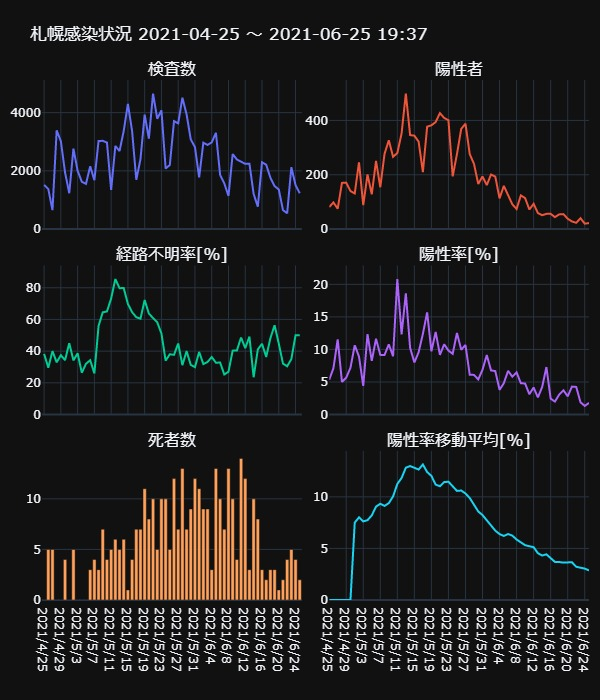
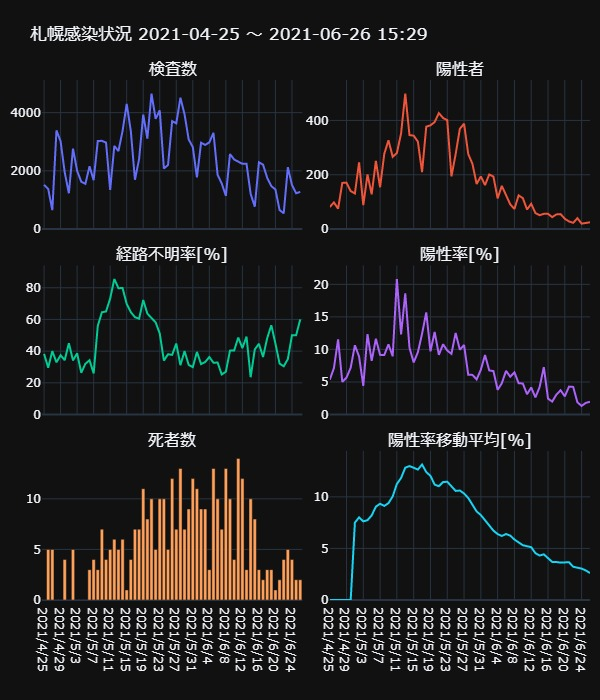
Updated with latest data.

diff --git a/docs/_includes/sapporo.html b/docs/_includes/sapporo.html
@@ -1,1 +1,1 @@
-<div>                            <div id="b25d6738-f92f-4b66-a51c-bef9ba3675e7" class="plotly-graph-div" style="height:700px; width:600px;"></div>            <script type="text/javascript">                                    window.PLOTLYENV=window.PLOTLYENV || {};                                    if (document.getElementById("b25d6738-f92f-4b66-a51c-bef9ba3675e7")) {                    Plotly.newPlot(                        "b25d6738-f92f-4b66-a51c-bef9ba3675e7",                        [{"name": "\u691c\u67fb\u6570", "type": "scatter", "x": ["2021/4/25", "2021/4/26", "2021/4/27", "2021/4/28", "2021/4/29", "2021/4/30", "2021/5/1", "2021/5/2", "2021/5/3", "2021/5/4", "2021/5/5", "2021/5/6", "2021/5/7", "2021/5/8", "2021/5/9", "2021/5/10", "2021/5/11", "2021/5/12", "2021/5/13", "2021/5/14", "2021/5/15", "2021/5/16", "2021/5/17", "2021/5/18", "2021/5/19", "2021/5/20", "2021/5/21", "2021/5/22", "2021/5/23", "2021/5/24", "2021/5/25", "2021/5/26", "2021/5/27", "2021/5/28", "2021/5/29", "2021/5/30", "2021/5/31", "2021/6/1", "2021/6/2", "2021/6/3", "2021/6/4", "2021/6/5", "2021/6/6", "2021/6/7", "2021/6/8", "2021/6/9", "2021/6/10", "2021/6/11", "2021/6/12", "2021/6/13", "2021/6/14", "2021/6/15", "2021/6/16", "2021/6/17", "2021/6/18", "2021/6/19", "2021/6/20", "2021/6/21", "2021/6/22", "2021/6/23", "2021/6/24", "2021/6/25"], "xaxis": "x", "y": [1517, 1377, 649, 3391, 3018, 1946, 1231, 2764, 2001, 1626, 1553, 2157, 1680, 3028, 3031, 2972, 1345, 2856, 2680, 3372, 4302, 3365, 1694, 2402, 3933, 3105, 4656, 3789, 4080, 2080, 2201, 3708, 3632, 4511, 3943, 3079, 2818, 1773, 2967, 2891, 2978, 3307, 1863, 1567, 1142, 2577, 2391, 2307, 2240, 2244, 1208, 768, 2295, 2212, 1763, 1476, 1360, 653, 542, 2124, 1513, 1229], "yaxis": "y"}, {"name": "\u967d\u6027\u8005", "type": "scatter", "x": ["2021/4/25", "2021/4/26", "2021/4/27", "2021/4/28", "2021/4/29", "2021/4/30", "2021/5/1", "2021/5/2", "2021/5/3", "2021/5/4", "2021/5/5", "2021/5/6", "2021/5/7", "2021/5/8", "2021/5/9", "2021/5/10", "2021/5/11", "2021/5/12", "2021/5/13", "2021/5/14", "2021/5/15", "2021/5/16", "2021/5/17", "2021/5/18", "2021/5/19", "2021/5/20", "2021/5/21", "2021/5/22", "2021/5/23", "2021/5/24", "2021/5/25", "2021/5/26", "2021/5/27", "2021/5/28", "2021/5/29", "2021/5/30", "2021/5/31", "2021/6/1", "2021/6/2", "2021/6/3", "2021/6/4", "2021/6/5", "2021/6/6", "2021/6/7", "2021/6/8", "2021/6/9", "2021/6/10", "2021/6/11", "2021/6/12", "2021/6/13", "2021/6/14", "2021/6/15", "2021/6/16", "2021/6/17", "2021/6/18", "2021/6/19", "2021/6/20", "2021/6/21", "2021/6/22", "2021/6/23", "2021/6/24", "2021/6/25"], "xaxis": "x2", "y": [81, 98, 75, 170, 171, 140, 131, 246, 88, 201, 128, 251, 154, 277, 327, 266, 280, 352, 499, 346, 344, 322, 210, 377, 382, 394, 427, 409, 401, 194, 276, 369, 388, 276, 240, 166, 194, 162, 201, 193, 113, 159, 125, 91, 74, 124, 114, 72, 93, 59, 51, 56, 56, 44, 54, 55, 38, 28, 23, 40, 20, 22], "yaxis": "y2"}, {"name": "\u7d4c\u8def\u4e0d\u660e\u7387[%]", "type": "scatter", "x": ["2021/4/25", "2021/4/26", "2021/4/27", "2021/4/28", "2021/4/29", "2021/4/30", "2021/5/1", "2021/5/2", "2021/5/3", "2021/5/4", "2021/5/5", "2021/5/6", "2021/5/7", "2021/5/8", "2021/5/9", "2021/5/10", "2021/5/11", "2021/5/12", "2021/5/13", "2021/5/14", "2021/5/15", "2021/5/16", "2021/5/17", "2021/5/18", "2021/5/19", "2021/5/20", "2021/5/21", "2021/5/22", "2021/5/23", "2021/5/24", "2021/5/25", "2021/5/26", "2021/5/27", "2021/5/28", "2021/5/29", "2021/5/30", "2021/5/31", "2021/6/1", "2021/6/2", "2021/6/3", "2021/6/4", "2021/6/5", "2021/6/6", "2021/6/7", "2021/6/8", "2021/6/9", "2021/6/10", "2021/6/11", "2021/6/12", "2021/6/13", "2021/6/14", "2021/6/15", "2021/6/16", "2021/6/17", "2021/6/18", "2021/6/19", "2021/6/20", "2021/6/21", "2021/6/22", "2021/6/23", "2021/6/24", "2021/6/25"], "xaxis": "x3", "y": [38.2716049382716, 29.591836734693878, 40.0, 32.94117647058823, 37.42690058479532, 34.285714285714285, 45.038167938931295, 34.146341463414636, 38.63636363636363, 26.368159203980102, 32.03125, 34.26294820717131, 25.97402597402597, 55.95667870036101, 64.52599388379205, 65.0375939849624, 73.21428571428571, 85.51136363636364, 79.75951903807615, 79.76878612716763, 69.76744186046511, 64.59627329192547, 61.42857142857143, 60.47745358090185, 72.25130890052355, 63.70558375634518, 60.88992974238876, 58.19070904645477, 51.12219451371571, 34.02061855670103, 38.04347826086957, 37.669376693766935, 44.84536082474227, 31.15942028985507, 40.0, 31.32530120481928, 29.896907216494846, 39.50617283950617, 31.8407960199005, 33.160621761658035, 36.283185840707965, 32.70440251572327, 32.800000000000004, 25.274725274725274, 27.027027027027028, 40.32258064516129, 40.35087719298245, 48.61111111111111, 41.935483870967744, 49.152542372881356, 23.52941176470588, 41.07142857142857, 44.642857142857146, 36.36363636363637, 48.148148148148145, 56.36363636363636, 44.73684210526316, 32.142857142857146, 30.434782608695656, 35.0, 50.0, 50.0], "yaxis": "y3"}, {"name": "\u967d\u6027\u7387[%]", "type": "scatter", "x": ["2021/4/25", "2021/4/26", "2021/4/27", "2021/4/28", "2021/4/29", "2021/4/30", "2021/5/1", "2021/5/2", "2021/5/3", "2021/5/4", "2021/5/5", "2021/5/6", "2021/5/7", "2021/5/8", "2021/5/9", "2021/5/10", "2021/5/11", "2021/5/12", "2021/5/13", "2021/5/14", "2021/5/15", "2021/5/16", "2021/5/17", "2021/5/18", "2021/5/19", "2021/5/20", "2021/5/21", "2021/5/22", "2021/5/23", "2021/5/24", "2021/5/25", "2021/5/26", "2021/5/27", "2021/5/28", "2021/5/29", "2021/5/30", "2021/5/31", "2021/6/1", "2021/6/2", "2021/6/3", "2021/6/4", "2021/6/5", "2021/6/6", "2021/6/7", "2021/6/8", "2021/6/9", "2021/6/10", "2021/6/11", "2021/6/12", "2021/6/13", "2021/6/14", "2021/6/15", "2021/6/16", "2021/6/17", "2021/6/18", "2021/6/19", "2021/6/20", "2021/6/21", "2021/6/22", "2021/6/23", "2021/6/24", "2021/6/25"], "xaxis": "x4", "y": [5.339485827290705, 7.116920842411038, 11.556240369799692, 5.013270421704512, 5.666003976143141, 7.194244604316546, 10.641754670999187, 8.90014471780029, 4.397801099450275, 12.361623616236162, 8.24211204121056, 11.636532220676866, 9.166666666666666, 9.147952443857331, 10.788518640712635, 8.950201884253028, 20.817843866171003, 12.324929971988796, 18.619402985074625, 10.26097271648873, 7.996280799628081, 9.569093610698365, 12.396694214876034, 15.695253955037469, 9.712687515891178, 12.689210950080515, 9.170962199312713, 10.794404856162576, 9.82843137254902, 9.326923076923077, 12.539754656974104, 9.951456310679612, 10.682819383259911, 6.1183772999334956, 6.086735987826528, 5.391360831438779, 6.88431511710433, 9.137055837563452, 6.774519716885743, 6.675890695261155, 3.794492948287441, 4.807983066223163, 6.709608158883522, 5.8072750478621575, 6.47985989492119, 4.811796662786186, 4.767879548306149, 3.1209362808842656, 4.151785714285714, 2.6292335115864525, 4.2218543046357615, 7.291666666666667, 2.440087145969499, 1.9891500904159132, 3.0629608621667614, 3.7262872628726287, 2.794117647058824, 4.287901990811639, 4.243542435424354, 1.8832391713747645, 1.3218770654329148, 1.790073230268511], "yaxis": "y4"}, {"name": "\u6b7b\u8005\u6570", "type": "bar", "x": ["2021/4/25", "2021/4/26", "2021/4/27", "2021/4/28", "2021/4/29", "2021/4/30", "2021/5/1", "2021/5/2", "2021/5/3", "2021/5/4", "2021/5/5", "2021/5/6", "2021/5/7", "2021/5/8", "2021/5/9", "2021/5/10", "2021/5/11", "2021/5/12", "2021/5/13", "2021/5/14", "2021/5/15", "2021/5/16", "2021/5/17", "2021/5/18", "2021/5/19", "2021/5/20", "2021/5/21", "2021/5/22", "2021/5/23", "2021/5/24", "2021/5/25", "2021/5/26", "2021/5/27", "2021/5/28", "2021/5/29", "2021/5/30", "2021/5/31", "2021/6/1", "2021/6/2", "2021/6/3", "2021/6/4", "2021/6/5", "2021/6/6", "2021/6/7", "2021/6/8", "2021/6/9", "2021/6/10", "2021/6/11", "2021/6/12", "2021/6/13", "2021/6/14", "2021/6/15", "2021/6/16", "2021/6/17", "2021/6/18", "2021/6/19", "2021/6/20", "2021/6/21", "2021/6/22", "2021/6/23", "2021/6/24", "2021/6/25"], "xaxis": "x5", "y": [0, 5, 5, 0, 0, 4, 0, 5, 0, 0, 0, 3, 4, 3, 7, 4, 5, 6, 5, 6, 1, 4, 7, 7, 11, 8, 10, 5, 10, 10, 5, 12, 7, 13, 7, 9, 12, 11, 9, 9, 3, 13, 10, 7, 13, 10, 4, 14, 12, 3, 10, 8, 3, 2, 3, 3, 1, 2, 4, 5, 4, 2], "yaxis": "y5"}, {"name": "\u967d\u6027\u7387\u79fb\u52d5\u5e73\u5747[%]", "type": "scatter", "x": ["2021/4/25", "2021/4/26", "2021/4/27", "2021/4/28", "2021/4/29", "2021/4/30", "2021/5/1", "2021/5/2", "2021/5/3", "2021/5/4", "2021/5/5", "2021/5/6", "2021/5/7", "2021/5/8", "2021/5/9", "2021/5/10", "2021/5/11", "2021/5/12", "2021/5/13", "2021/5/14", "2021/5/15", "2021/5/16", "2021/5/17", "2021/5/18", "2021/5/19", "2021/5/20", "2021/5/21", "2021/5/22", "2021/5/23", "2021/5/24", "2021/5/25", "2021/5/26", "2021/5/27", "2021/5/28", "2021/5/29", "2021/5/30", "2021/5/31", "2021/6/1", "2021/6/2", "2021/6/3", "2021/6/4", "2021/6/5", "2021/6/6", "2021/6/7", "2021/6/8", "2021/6/9", "2021/6/10", "2021/6/11", "2021/6/12", "2021/6/13", "2021/6/14", "2021/6/15", "2021/6/16", "2021/6/17", "2021/6/18", "2021/6/19", "2021/6/20", "2021/6/21", "2021/6/22", "2021/6/23", "2021/6/24", "2021/6/25"], "xaxis": "x6", "y": [0.0, 0.0, 0.0, 0.0, 0.0, 0.0, 7.503988673237832, 8.012654229024914, 7.624208551459091, 7.739263300950015, 8.20052638945088, 9.053458995812841, 9.335233576148571, 9.12183325798545, 9.391600961258641, 10.041943930516178, 11.249975394792585, 11.833235099189475, 12.830788065532012, 12.987117501220878, 12.8225929806167, 12.648389404900376, 13.140745452132233, 12.408946893398872, 12.035769399670638, 11.188599108957195, 11.032883320789193, 11.432615328865548, 11.469663580558498, 11.03112484656522, 10.580339232556168, 10.614449060383087, 10.32782169369443, 9.891738136640255, 9.219214012592248, 8.585346792433644, 8.236402798173822, 7.750302966829444, 7.296454882001749, 6.724036498001926, 6.392053019195346, 6.209374030394867, 6.397695077172687, 6.24383221013809, 5.864232789760624, 5.583843782032115, 5.311270761038544, 5.215048379980947, 5.12130590113274, 4.53839523723316, 4.311906559629389, 4.4278789555930285, 4.0890633103335015, 3.6921019592063242, 3.683819756532395, 3.6230342634733828, 3.646589139969436, 3.6560245237088473, 3.220578204959945, 3.141028494303555, 3.045703776448841, 2.863862686177662], "yaxis": "y6"}],                        {"annotations": [{"font": {"size": 16}, "showarrow": false, "text": "\u691c\u67fb\u6570", "x": 0.2375, "xanchor": "center", "xref": "paper", "y": 1.0, "yanchor": "bottom", "yref": "paper"}, {"font": {"size": 16}, "showarrow": false, "text": "\u967d\u6027\u8005", "x": 0.7625, "xanchor": "center", "xref": "paper", "y": 1.0, "yanchor": "bottom", "yref": "paper"}, {"font": {"size": 16}, "showarrow": false, "text": "\u7d4c\u8def\u4e0d\u660e\u7387[%]", "x": 0.2375, "xanchor": "center", "xref": "paper", "y": 0.6433333333333333, "yanchor": "bottom", "yref": "paper"}, {"font": {"size": 16}, "showarrow": false, "text": "\u967d\u6027\u7387[%]", "x": 0.7625, "xanchor": "center", "xref": "paper", "y": 0.6433333333333333, "yanchor": "bottom", "yref": "paper"}, {"font": {"size": 16}, "showarrow": false, "text": "\u6b7b\u8005\u6570", "x": 0.2375, "xanchor": "center", "xref": "paper", "y": 0.2866666666666667, "yanchor": "bottom", "yref": "paper"}, {"font": {"size": 16}, "showarrow": false, "text": "\u967d\u6027\u7387\u79fb\u52d5\u5e73\u5747[%]", "x": 0.7625, "xanchor": "center", "xref": "paper", "y": 0.2866666666666667, "yanchor": "bottom", "yref": "paper"}], "height": 700, "margin": {"b": 100, "l": 10, "r": 10, "t": 80}, "showlegend": false, "template": {"data": {"bar": [{"error_x": {"color": "#f2f5fa"}, "error_y": {"color": "#f2f5fa"}, "marker": {"line": {"color": "rgb(17,17,17)", "width": 0.5}}, "type": "bar"}], "barpolar": [{"marker": {"line": {"color": "rgb(17,17,17)", "width": 0.5}}, "type": "barpolar"}], "carpet": [{"aaxis": {"endlinecolor": "#A2B1C6", "gridcolor": "#506784", "linecolor": "#506784", "minorgridcolor": "#506784", "startlinecolor": "#A2B1C6"}, "baxis": {"endlinecolor": "#A2B1C6", "gridcolor": "#506784", "linecolor": "#506784", "minorgridcolor": "#506784", "startlinecolor": "#A2B1C6"}, "type": "carpet"}], "choropleth": [{"colorbar": {"outlinewidth": 0, "ticks": ""}, "type": "choropleth"}], "contour": [{"colorbar": {"outlinewidth": 0, "ticks": ""}, "colorscale": [[0.0, "#0d0887"], [0.1111111111111111, "#46039f"], [0.2222222222222222, "#7201a8"], [0.3333333333333333, "#9c179e"], [0.4444444444444444, "#bd3786"], [0.5555555555555556, "#d8576b"], [0.6666666666666666, "#ed7953"], [0.7777777777777778, "#fb9f3a"], [0.8888888888888888, "#fdca26"], [1.0, "#f0f921"]], "type": "contour"}], "contourcarpet": [{"colorbar": {"outlinewidth": 0, "ticks": ""}, "type": "contourcarpet"}], "heatmap": [{"colorbar": {"outlinewidth": 0, "ticks": ""}, "colorscale": [[0.0, "#0d0887"], [0.1111111111111111, "#46039f"], [0.2222222222222222, "#7201a8"], [0.3333333333333333, "#9c179e"], [0.4444444444444444, "#bd3786"], [0.5555555555555556, "#d8576b"], [0.6666666666666666, "#ed7953"], [0.7777777777777778, "#fb9f3a"], [0.8888888888888888, "#fdca26"], [1.0, "#f0f921"]], "type": "heatmap"}], "heatmapgl": [{"colorbar": {"outlinewidth": 0, "ticks": ""}, "colorscale": [[0.0, "#0d0887"], [0.1111111111111111, "#46039f"], [0.2222222222222222, "#7201a8"], [0.3333333333333333, "#9c179e"], [0.4444444444444444, "#bd3786"], [0.5555555555555556, "#d8576b"], [0.6666666666666666, "#ed7953"], [0.7777777777777778, "#fb9f3a"], [0.8888888888888888, "#fdca26"], [1.0, "#f0f921"]], "type": "heatmapgl"}], "histogram": [{"marker": {"colorbar": {"outlinewidth": 0, "ticks": ""}}, "type": "histogram"}], "histogram2d": [{"colorbar": {"outlinewidth": 0, "ticks": ""}, "colorscale": [[0.0, "#0d0887"], [0.1111111111111111, "#46039f"], [0.2222222222222222, "#7201a8"], [0.3333333333333333, "#9c179e"], [0.4444444444444444, "#bd3786"], [0.5555555555555556, "#d8576b"], [0.6666666666666666, "#ed7953"], [0.7777777777777778, "#fb9f3a"], [0.8888888888888888, "#fdca26"], [1.0, "#f0f921"]], "type": "histogram2d"}], "histogram2dcontour": [{"colorbar": {"outlinewidth": 0, "ticks": ""}, "colorscale": [[0.0, "#0d0887"], [0.1111111111111111, "#46039f"], [0.2222222222222222, "#7201a8"], [0.3333333333333333, "#9c179e"], [0.4444444444444444, "#bd3786"], [0.5555555555555556, "#d8576b"], [0.6666666666666666, "#ed7953"], [0.7777777777777778, "#fb9f3a"], [0.8888888888888888, "#fdca26"], [1.0, "#f0f921"]], "type": "histogram2dcontour"}], "mesh3d": [{"colorbar": {"outlinewidth": 0, "ticks": ""}, "type": "mesh3d"}], "parcoords": [{"line": {"colorbar": {"outlinewidth": 0, "ticks": ""}}, "type": "parcoords"}], "pie": [{"automargin": true, "type": "pie"}], "scatter": [{"marker": {"line": {"color": "#283442"}}, "type": "scatter"}], "scatter3d": [{"line": {"colorbar": {"outlinewidth": 0, "ticks": ""}}, "marker": {"colorbar": {"outlinewidth": 0, "ticks": ""}}, "type": "scatter3d"}], "scattercarpet": [{"marker": {"colorbar": {"outlinewidth": 0, "ticks": ""}}, "type": "scattercarpet"}], "scattergeo": [{"marker": {"colorbar": {"outlinewidth": 0, "ticks": ""}}, "type": "scattergeo"}], "scattergl": [{"marker": {"line": {"color": "#283442"}}, "type": "scattergl"}], "scattermapbox": [{"marker": {"colorbar": {"outlinewidth": 0, "ticks": ""}}, "type": "scattermapbox"}], "scatterpolar": [{"marker": {"colorbar": {"outlinewidth": 0, "ticks": ""}}, "type": "scatterpolar"}], "scatterpolargl": [{"marker": {"colorbar": {"outlinewidth": 0, "ticks": ""}}, "type": "scatterpolargl"}], "scatterternary": [{"marker": {"colorbar": {"outlinewidth": 0, "ticks": ""}}, "type": "scatterternary"}], "surface": [{"colorbar": {"outlinewidth": 0, "ticks": ""}, "colorscale": [[0.0, "#0d0887"], [0.1111111111111111, "#46039f"], [0.2222222222222222, "#7201a8"], [0.3333333333333333, "#9c179e"], [0.4444444444444444, "#bd3786"], [0.5555555555555556, "#d8576b"], [0.6666666666666666, "#ed7953"], [0.7777777777777778, "#fb9f3a"], [0.8888888888888888, "#fdca26"], [1.0, "#f0f921"]], "type": "surface"}], "table": [{"cells": {"fill": {"color": "#506784"}, "line": {"color": "rgb(17,17,17)"}}, "header": {"fill": {"color": "#2a3f5f"}, "line": {"color": "rgb(17,17,17)"}}, "type": "table"}]}, "layout": {"annotationdefaults": {"arrowcolor": "#f2f5fa", "arrowhead": 0, "arrowwidth": 1}, "autotypenumbers": "strict", "coloraxis": {"colorbar": {"outlinewidth": 0, "ticks": ""}}, "colorscale": {"diverging": [[0, "#8e0152"], [0.1, "#c51b7d"], [0.2, "#de77ae"], [0.3, "#f1b6da"], [0.4, "#fde0ef"], [0.5, "#f7f7f7"], [0.6, "#e6f5d0"], [0.7, "#b8e186"], [0.8, "#7fbc41"], [0.9, "#4d9221"], [1, "#276419"]], "sequential": [[0.0, "#0d0887"], [0.1111111111111111, "#46039f"], [0.2222222222222222, "#7201a8"], [0.3333333333333333, "#9c179e"], [0.4444444444444444, "#bd3786"], [0.5555555555555556, "#d8576b"], [0.6666666666666666, "#ed7953"], [0.7777777777777778, "#fb9f3a"], [0.8888888888888888, "#fdca26"], [1.0, "#f0f921"]], "sequentialminus": [[0.0, "#0d0887"], [0.1111111111111111, "#46039f"], [0.2222222222222222, "#7201a8"], [0.3333333333333333, "#9c179e"], [0.4444444444444444, "#bd3786"], [0.5555555555555556, "#d8576b"], [0.6666666666666666, "#ed7953"], [0.7777777777777778, "#fb9f3a"], [0.8888888888888888, "#fdca26"], [1.0, "#f0f921"]]}, "colorway": ["#636efa", "#EF553B", "#00cc96", "#ab63fa", "#FFA15A", "#19d3f3", "#FF6692", "#B6E880", "#FF97FF", "#FECB52"], "font": {"color": "#f2f5fa"}, "geo": {"bgcolor": "rgb(17,17,17)", "lakecolor": "rgb(17,17,17)", "landcolor": "rgb(17,17,17)", "showlakes": true, "showland": true, "subunitcolor": "#506784"}, "hoverlabel": {"align": "left"}, "hovermode": "closest", "mapbox": {"style": "dark"}, "paper_bgcolor": "rgb(17,17,17)", "plot_bgcolor": "rgb(17,17,17)", "polar": {"angularaxis": {"gridcolor": "#506784", "linecolor": "#506784", "ticks": ""}, "bgcolor": "rgb(17,17,17)", "radialaxis": {"gridcolor": "#506784", "linecolor": "#506784", "ticks": ""}}, "scene": {"xaxis": {"backgroundcolor": "rgb(17,17,17)", "gridcolor": "#506784", "gridwidth": 2, "linecolor": "#506784", "showbackground": true, "ticks": "", "zerolinecolor": "#C8D4E3"}, "yaxis": {"backgroundcolor": "rgb(17,17,17)", "gridcolor": "#506784", "gridwidth": 2, "linecolor": "#506784", "showbackground": true, "ticks": "", "zerolinecolor": "#C8D4E3"}, "zaxis": {"backgroundcolor": "rgb(17,17,17)", "gridcolor": "#506784", "gridwidth": 2, "linecolor": "#506784", "showbackground": true, "ticks": "", "zerolinecolor": "#C8D4E3"}}, "shapedefaults": {"line": {"color": "#f2f5fa"}}, "sliderdefaults": {"bgcolor": "#C8D4E3", "bordercolor": "rgb(17,17,17)", "borderwidth": 1, "tickwidth": 0}, "ternary": {"aaxis": {"gridcolor": "#506784", "linecolor": "#506784", "ticks": ""}, "baxis": {"gridcolor": "#506784", "linecolor": "#506784", "ticks": ""}, "bgcolor": "rgb(17,17,17)", "caxis": {"gridcolor": "#506784", "linecolor": "#506784", "ticks": ""}}, "title": {"x": 0.05}, "updatemenudefaults": {"bgcolor": "#506784", "borderwidth": 0}, "xaxis": {"automargin": true, "gridcolor": "#283442", "linecolor": "#506784", "ticks": "", "title": {"standoff": 15}, "zerolinecolor": "#283442", "zerolinewidth": 2}, "yaxis": {"automargin": true, "gridcolor": "#283442", "linecolor": "#506784", "ticks": "", "title": {"standoff": 15}, "zerolinecolor": "#283442", "zerolinewidth": 2}}}, "title": {"text": "\u672d\u5e4c\u611f\u67d3\u72b6\u6cc1 2021-04-25 \uff5e 2021-06-25 19:37"}, "width": 600, "xaxis": {"anchor": "y", "domain": [0.0, 0.475], "matches": "x5", "showticklabels": false}, "xaxis2": {"anchor": "y2", "domain": [0.525, 1.0], "matches": "x6", "showticklabels": false}, "xaxis3": {"anchor": "y3", "domain": [0.0, 0.475], "matches": "x5", "showticklabels": false}, "xaxis4": {"anchor": "y4", "domain": [0.525, 1.0], "matches": "x6", "showticklabels": false}, "xaxis5": {"anchor": "y5", "domain": [0.0, 0.475]}, "xaxis6": {"anchor": "y6", "domain": [0.525, 1.0]}, "yaxis": {"anchor": "x", "domain": [0.7133333333333334, 1.0], "range": [0, 5121.6]}, "yaxis2": {"anchor": "x2", "domain": [0.7133333333333334, 1.0], "range": [0, 548.9000000000001]}, "yaxis3": {"anchor": "x3", "domain": [0.3566666666666667, 0.6433333333333333], "range": [0, 94.06250000000001]}, "yaxis4": {"anchor": "x4", "domain": [0.3566666666666667, 0.6433333333333333], "range": [0, 22.899628252788105]}, "yaxis5": {"anchor": "x5", "domain": [0.0, 0.2866666666666667]}, "yaxis6": {"anchor": "x6", "domain": [0.0, 0.2866666666666667], "range": [0, 14.454819997345457]}},                        {"responsive": true}                    )                };                            </script>        </div>
+<div>                            <div id="d85dbfbd-cb81-4a8b-b742-5a69754cc011" class="plotly-graph-div" style="height:700px; width:600px;"></div>            <script type="text/javascript">                                    window.PLOTLYENV=window.PLOTLYENV || {};                                    if (document.getElementById("d85dbfbd-cb81-4a8b-b742-5a69754cc011")) {                    Plotly.newPlot(                        "d85dbfbd-cb81-4a8b-b742-5a69754cc011",                        [{"name": "\u691c\u67fb\u6570", "type": "scatter", "x": ["2021/4/25", "2021/4/26", "2021/4/27", "2021/4/28", "2021/4/29", "2021/4/30", "2021/5/1", "2021/5/2", "2021/5/3", "2021/5/4", "2021/5/5", "2021/5/6", "2021/5/7", "2021/5/8", "2021/5/9", "2021/5/10", "2021/5/11", "2021/5/12", "2021/5/13", "2021/5/14", "2021/5/15", "2021/5/16", "2021/5/17", "2021/5/18", "2021/5/19", "2021/5/20", "2021/5/21", "2021/5/22", "2021/5/23", "2021/5/24", "2021/5/25", "2021/5/26", "2021/5/27", "2021/5/28", "2021/5/29", "2021/5/30", "2021/5/31", "2021/6/1", "2021/6/2", "2021/6/3", "2021/6/4", "2021/6/5", "2021/6/6", "2021/6/7", "2021/6/8", "2021/6/9", "2021/6/10", "2021/6/11", "2021/6/12", "2021/6/13", "2021/6/14", "2021/6/15", "2021/6/16", "2021/6/17", "2021/6/18", "2021/6/19", "2021/6/20", "2021/6/21", "2021/6/22", "2021/6/23", "2021/6/24", "2021/6/25", "2021/6/26"], "xaxis": "x", "y": [1517, 1377, 649, 3391, 3018, 1946, 1231, 2764, 2001, 1626, 1553, 2157, 1680, 3028, 3031, 2972, 1345, 2856, 2680, 3372, 4302, 3365, 1694, 2402, 3933, 3105, 4656, 3789, 4080, 2080, 2201, 3708, 3632, 4511, 3943, 3079, 2818, 1773, 2967, 2891, 2978, 3307, 1863, 1567, 1142, 2577, 2391, 2307, 2240, 2244, 1208, 768, 2295, 2212, 1763, 1476, 1360, 653, 542, 2124, 1513, 1229, 1278], "yaxis": "y"}, {"name": "\u967d\u6027\u8005", "type": "scatter", "x": ["2021/4/25", "2021/4/26", "2021/4/27", "2021/4/28", "2021/4/29", "2021/4/30", "2021/5/1", "2021/5/2", "2021/5/3", "2021/5/4", "2021/5/5", "2021/5/6", "2021/5/7", "2021/5/8", "2021/5/9", "2021/5/10", "2021/5/11", "2021/5/12", "2021/5/13", "2021/5/14", "2021/5/15", "2021/5/16", "2021/5/17", "2021/5/18", "2021/5/19", "2021/5/20", "2021/5/21", "2021/5/22", "2021/5/23", "2021/5/24", "2021/5/25", "2021/5/26", "2021/5/27", "2021/5/28", "2021/5/29", "2021/5/30", "2021/5/31", "2021/6/1", "2021/6/2", "2021/6/3", "2021/6/4", "2021/6/5", "2021/6/6", "2021/6/7", "2021/6/8", "2021/6/9", "2021/6/10", "2021/6/11", "2021/6/12", "2021/6/13", "2021/6/14", "2021/6/15", "2021/6/16", "2021/6/17", "2021/6/18", "2021/6/19", "2021/6/20", "2021/6/21", "2021/6/22", "2021/6/23", "2021/6/24", "2021/6/25", "2021/6/26"], "xaxis": "x2", "y": [81, 98, 75, 170, 171, 140, 131, 246, 88, 201, 128, 251, 154, 277, 327, 266, 280, 352, 499, 346, 344, 322, 210, 377, 382, 394, 427, 409, 401, 194, 276, 369, 388, 276, 240, 166, 194, 162, 201, 193, 113, 159, 125, 91, 74, 124, 114, 72, 93, 59, 51, 56, 56, 44, 54, 55, 38, 28, 23, 40, 20, 22, 25], "yaxis": "y2"}, {"name": "\u7d4c\u8def\u4e0d\u660e\u7387[%]", "type": "scatter", "x": ["2021/4/25", "2021/4/26", "2021/4/27", "2021/4/28", "2021/4/29", "2021/4/30", "2021/5/1", "2021/5/2", "2021/5/3", "2021/5/4", "2021/5/5", "2021/5/6", "2021/5/7", "2021/5/8", "2021/5/9", "2021/5/10", "2021/5/11", "2021/5/12", "2021/5/13", "2021/5/14", "2021/5/15", "2021/5/16", "2021/5/17", "2021/5/18", "2021/5/19", "2021/5/20", "2021/5/21", "2021/5/22", "2021/5/23", "2021/5/24", "2021/5/25", "2021/5/26", "2021/5/27", "2021/5/28", "2021/5/29", "2021/5/30", "2021/5/31", "2021/6/1", "2021/6/2", "2021/6/3", "2021/6/4", "2021/6/5", "2021/6/6", "2021/6/7", "2021/6/8", "2021/6/9", "2021/6/10", "2021/6/11", "2021/6/12", "2021/6/13", "2021/6/14", "2021/6/15", "2021/6/16", "2021/6/17", "2021/6/18", "2021/6/19", "2021/6/20", "2021/6/21", "2021/6/22", "2021/6/23", "2021/6/24", "2021/6/25", "2021/6/26"], "xaxis": "x3", "y": [38.2716049382716, 29.591836734693878, 40.0, 32.94117647058823, 37.42690058479532, 34.285714285714285, 45.038167938931295, 34.146341463414636, 38.63636363636363, 26.368159203980102, 32.03125, 34.26294820717131, 25.97402597402597, 55.95667870036101, 64.52599388379205, 65.0375939849624, 73.21428571428571, 85.51136363636364, 79.75951903807615, 79.76878612716763, 69.76744186046511, 64.59627329192547, 61.42857142857143, 60.47745358090185, 72.25130890052355, 63.70558375634518, 60.88992974238876, 58.19070904645477, 51.12219451371571, 34.02061855670103, 38.04347826086957, 37.669376693766935, 44.84536082474227, 31.15942028985507, 40.0, 31.32530120481928, 29.896907216494846, 39.50617283950617, 31.8407960199005, 33.160621761658035, 36.283185840707965, 32.70440251572327, 32.800000000000004, 25.274725274725274, 27.027027027027028, 40.32258064516129, 40.35087719298245, 48.61111111111111, 41.935483870967744, 49.152542372881356, 23.52941176470588, 41.07142857142857, 44.642857142857146, 36.36363636363637, 48.148148148148145, 56.36363636363636, 44.73684210526316, 32.142857142857146, 30.434782608695656, 35.0, 50.0, 50.0, 60.0], "yaxis": "y3"}, {"name": "\u967d\u6027\u7387[%]", "type": "scatter", "x": ["2021/4/25", "2021/4/26", "2021/4/27", "2021/4/28", "2021/4/29", "2021/4/30", "2021/5/1", "2021/5/2", "2021/5/3", "2021/5/4", "2021/5/5", "2021/5/6", "2021/5/7", "2021/5/8", "2021/5/9", "2021/5/10", "2021/5/11", "2021/5/12", "2021/5/13", "2021/5/14", "2021/5/15", "2021/5/16", "2021/5/17", "2021/5/18", "2021/5/19", "2021/5/20", "2021/5/21", "2021/5/22", "2021/5/23", "2021/5/24", "2021/5/25", "2021/5/26", "2021/5/27", "2021/5/28", "2021/5/29", "2021/5/30", "2021/5/31", "2021/6/1", "2021/6/2", "2021/6/3", "2021/6/4", "2021/6/5", "2021/6/6", "2021/6/7", "2021/6/8", "2021/6/9", "2021/6/10", "2021/6/11", "2021/6/12", "2021/6/13", "2021/6/14", "2021/6/15", "2021/6/16", "2021/6/17", "2021/6/18", "2021/6/19", "2021/6/20", "2021/6/21", "2021/6/22", "2021/6/23", "2021/6/24", "2021/6/25", "2021/6/26"], "xaxis": "x4", "y": [5.339485827290705, 7.116920842411038, 11.556240369799692, 5.013270421704512, 5.666003976143141, 7.194244604316546, 10.641754670999187, 8.90014471780029, 4.397801099450275, 12.361623616236162, 8.24211204121056, 11.636532220676866, 9.166666666666666, 9.147952443857331, 10.788518640712635, 8.950201884253028, 20.817843866171003, 12.324929971988796, 18.619402985074625, 10.26097271648873, 7.996280799628081, 9.569093610698365, 12.396694214876034, 15.695253955037469, 9.712687515891178, 12.689210950080515, 9.170962199312713, 10.794404856162576, 9.82843137254902, 9.326923076923077, 12.539754656974104, 9.951456310679612, 10.682819383259911, 6.1183772999334956, 6.086735987826528, 5.391360831438779, 6.88431511710433, 9.137055837563452, 6.774519716885743, 6.675890695261155, 3.794492948287441, 4.807983066223163, 6.709608158883522, 5.8072750478621575, 6.47985989492119, 4.811796662786186, 4.767879548306149, 3.1209362808842656, 4.151785714285714, 2.6292335115864525, 4.2218543046357615, 7.291666666666667, 2.440087145969499, 1.9891500904159132, 3.0629608621667614, 3.7262872628726287, 2.794117647058824, 4.287901990811639, 4.243542435424354, 1.8832391713747645, 1.3218770654329148, 1.790073230268511, 1.9561815336463224], "yaxis": "y4"}, {"name": "\u6b7b\u8005\u6570", "type": "bar", "x": ["2021/4/25", "2021/4/26", "2021/4/27", "2021/4/28", "2021/4/29", "2021/4/30", "2021/5/1", "2021/5/2", "2021/5/3", "2021/5/4", "2021/5/5", "2021/5/6", "2021/5/7", "2021/5/8", "2021/5/9", "2021/5/10", "2021/5/11", "2021/5/12", "2021/5/13", "2021/5/14", "2021/5/15", "2021/5/16", "2021/5/17", "2021/5/18", "2021/5/19", "2021/5/20", "2021/5/21", "2021/5/22", "2021/5/23", "2021/5/24", "2021/5/25", "2021/5/26", "2021/5/27", "2021/5/28", "2021/5/29", "2021/5/30", "2021/5/31", "2021/6/1", "2021/6/2", "2021/6/3", "2021/6/4", "2021/6/5", "2021/6/6", "2021/6/7", "2021/6/8", "2021/6/9", "2021/6/10", "2021/6/11", "2021/6/12", "2021/6/13", "2021/6/14", "2021/6/15", "2021/6/16", "2021/6/17", "2021/6/18", "2021/6/19", "2021/6/20", "2021/6/21", "2021/6/22", "2021/6/23", "2021/6/24", "2021/6/25", "2021/6/26"], "xaxis": "x5", "y": [0, 5, 5, 0, 0, 4, 0, 5, 0, 0, 0, 3, 4, 3, 7, 4, 5, 6, 5, 6, 1, 4, 7, 7, 11, 8, 10, 5, 10, 10, 5, 12, 7, 13, 7, 9, 12, 11, 9, 9, 3, 13, 10, 7, 13, 10, 4, 14, 12, 3, 10, 8, 3, 2, 3, 3, 1, 2, 4, 5, 4, 2, 2], "yaxis": "y5"}, {"name": "\u967d\u6027\u7387\u79fb\u52d5\u5e73\u5747[%]", "type": "scatter", "x": ["2021/4/25", "2021/4/26", "2021/4/27", "2021/4/28", "2021/4/29", "2021/4/30", "2021/5/1", "2021/5/2", "2021/5/3", "2021/5/4", "2021/5/5", "2021/5/6", "2021/5/7", "2021/5/8", "2021/5/9", "2021/5/10", "2021/5/11", "2021/5/12", "2021/5/13", "2021/5/14", "2021/5/15", "2021/5/16", "2021/5/17", "2021/5/18", "2021/5/19", "2021/5/20", "2021/5/21", "2021/5/22", "2021/5/23", "2021/5/24", "2021/5/25", "2021/5/26", "2021/5/27", "2021/5/28", "2021/5/29", "2021/5/30", "2021/5/31", "2021/6/1", "2021/6/2", "2021/6/3", "2021/6/4", "2021/6/5", "2021/6/6", "2021/6/7", "2021/6/8", "2021/6/9", "2021/6/10", "2021/6/11", "2021/6/12", "2021/6/13", "2021/6/14", "2021/6/15", "2021/6/16", "2021/6/17", "2021/6/18", "2021/6/19", "2021/6/20", "2021/6/21", "2021/6/22", "2021/6/23", "2021/6/24", "2021/6/25", "2021/6/26"], "xaxis": "x6", "y": [0.0, 0.0, 0.0, 0.0, 0.0, 0.0, 7.503988673237832, 8.012654229024914, 7.624208551459091, 7.739263300950015, 8.20052638945088, 9.053458995812841, 9.335233576148571, 9.12183325798545, 9.391600961258641, 10.041943930516178, 11.249975394792585, 11.833235099189475, 12.830788065532012, 12.987117501220878, 12.8225929806167, 12.648389404900376, 13.140745452132233, 12.408946893398872, 12.035769399670638, 11.188599108957195, 11.032883320789193, 11.432615328865548, 11.469663580558498, 11.03112484656522, 10.580339232556168, 10.614449060383087, 10.32782169369443, 9.891738136640255, 9.219214012592248, 8.585346792433644, 8.236402798173822, 7.750302966829444, 7.296454882001749, 6.724036498001926, 6.392053019195346, 6.209374030394867, 6.397695077172687, 6.24383221013809, 5.864232789760624, 5.583843782032115, 5.311270761038544, 5.215048379980947, 5.12130590113274, 4.53839523723316, 4.311906559629389, 4.4278789555930285, 4.0890633103335015, 3.6921019592063242, 3.683819756532395, 3.6230342634733828, 3.646589139969436, 3.6560245237088473, 3.220578204959945, 3.141028494303555, 3.045703776448841, 2.863862686177662, 2.6109904391453327], "yaxis": "y6"}],                        {"annotations": [{"font": {"size": 16}, "showarrow": false, "text": "\u691c\u67fb\u6570", "x": 0.2375, "xanchor": "center", "xref": "paper", "y": 1.0, "yanchor": "bottom", "yref": "paper"}, {"font": {"size": 16}, "showarrow": false, "text": "\u967d\u6027\u8005", "x": 0.7625, "xanchor": "center", "xref": "paper", "y": 1.0, "yanchor": "bottom", "yref": "paper"}, {"font": {"size": 16}, "showarrow": false, "text": "\u7d4c\u8def\u4e0d\u660e\u7387[%]", "x": 0.2375, "xanchor": "center", "xref": "paper", "y": 0.6433333333333333, "yanchor": "bottom", "yref": "paper"}, {"font": {"size": 16}, "showarrow": false, "text": "\u967d\u6027\u7387[%]", "x": 0.7625, "xanchor": "center", "xref": "paper", "y": 0.6433333333333333, "yanchor": "bottom", "yref": "paper"}, {"font": {"size": 16}, "showarrow": false, "text": "\u6b7b\u8005\u6570", "x": 0.2375, "xanchor": "center", "xref": "paper", "y": 0.2866666666666667, "yanchor": "bottom", "yref": "paper"}, {"font": {"size": 16}, "showarrow": false, "text": "\u967d\u6027\u7387\u79fb\u52d5\u5e73\u5747[%]", "x": 0.7625, "xanchor": "center", "xref": "paper", "y": 0.2866666666666667, "yanchor": "bottom", "yref": "paper"}], "height": 700, "margin": {"b": 100, "l": 10, "r": 10, "t": 80}, "showlegend": false, "template": {"data": {"bar": [{"error_x": {"color": "#f2f5fa"}, "error_y": {"color": "#f2f5fa"}, "marker": {"line": {"color": "rgb(17,17,17)", "width": 0.5}}, "type": "bar"}], "barpolar": [{"marker": {"line": {"color": "rgb(17,17,17)", "width": 0.5}}, "type": "barpolar"}], "carpet": [{"aaxis": {"endlinecolor": "#A2B1C6", "gridcolor": "#506784", "linecolor": "#506784", "minorgridcolor": "#506784", "startlinecolor": "#A2B1C6"}, "baxis": {"endlinecolor": "#A2B1C6", "gridcolor": "#506784", "linecolor": "#506784", "minorgridcolor": "#506784", "startlinecolor": "#A2B1C6"}, "type": "carpet"}], "choropleth": [{"colorbar": {"outlinewidth": 0, "ticks": ""}, "type": "choropleth"}], "contour": [{"colorbar": {"outlinewidth": 0, "ticks": ""}, "colorscale": [[0.0, "#0d0887"], [0.1111111111111111, "#46039f"], [0.2222222222222222, "#7201a8"], [0.3333333333333333, "#9c179e"], [0.4444444444444444, "#bd3786"], [0.5555555555555556, "#d8576b"], [0.6666666666666666, "#ed7953"], [0.7777777777777778, "#fb9f3a"], [0.8888888888888888, "#fdca26"], [1.0, "#f0f921"]], "type": "contour"}], "contourcarpet": [{"colorbar": {"outlinewidth": 0, "ticks": ""}, "type": "contourcarpet"}], "heatmap": [{"colorbar": {"outlinewidth": 0, "ticks": ""}, "colorscale": [[0.0, "#0d0887"], [0.1111111111111111, "#46039f"], [0.2222222222222222, "#7201a8"], [0.3333333333333333, "#9c179e"], [0.4444444444444444, "#bd3786"], [0.5555555555555556, "#d8576b"], [0.6666666666666666, "#ed7953"], [0.7777777777777778, "#fb9f3a"], [0.8888888888888888, "#fdca26"], [1.0, "#f0f921"]], "type": "heatmap"}], "heatmapgl": [{"colorbar": {"outlinewidth": 0, "ticks": ""}, "colorscale": [[0.0, "#0d0887"], [0.1111111111111111, "#46039f"], [0.2222222222222222, "#7201a8"], [0.3333333333333333, "#9c179e"], [0.4444444444444444, "#bd3786"], [0.5555555555555556, "#d8576b"], [0.6666666666666666, "#ed7953"], [0.7777777777777778, "#fb9f3a"], [0.8888888888888888, "#fdca26"], [1.0, "#f0f921"]], "type": "heatmapgl"}], "histogram": [{"marker": {"colorbar": {"outlinewidth": 0, "ticks": ""}}, "type": "histogram"}], "histogram2d": [{"colorbar": {"outlinewidth": 0, "ticks": ""}, "colorscale": [[0.0, "#0d0887"], [0.1111111111111111, "#46039f"], [0.2222222222222222, "#7201a8"], [0.3333333333333333, "#9c179e"], [0.4444444444444444, "#bd3786"], [0.5555555555555556, "#d8576b"], [0.6666666666666666, "#ed7953"], [0.7777777777777778, "#fb9f3a"], [0.8888888888888888, "#fdca26"], [1.0, "#f0f921"]], "type": "histogram2d"}], "histogram2dcontour": [{"colorbar": {"outlinewidth": 0, "ticks": ""}, "colorscale": [[0.0, "#0d0887"], [0.1111111111111111, "#46039f"], [0.2222222222222222, "#7201a8"], [0.3333333333333333, "#9c179e"], [0.4444444444444444, "#bd3786"], [0.5555555555555556, "#d8576b"], [0.6666666666666666, "#ed7953"], [0.7777777777777778, "#fb9f3a"], [0.8888888888888888, "#fdca26"], [1.0, "#f0f921"]], "type": "histogram2dcontour"}], "mesh3d": [{"colorbar": {"outlinewidth": 0, "ticks": ""}, "type": "mesh3d"}], "parcoords": [{"line": {"colorbar": {"outlinewidth": 0, "ticks": ""}}, "type": "parcoords"}], "pie": [{"automargin": true, "type": "pie"}], "scatter": [{"marker": {"line": {"color": "#283442"}}, "type": "scatter"}], "scatter3d": [{"line": {"colorbar": {"outlinewidth": 0, "ticks": ""}}, "marker": {"colorbar": {"outlinewidth": 0, "ticks": ""}}, "type": "scatter3d"}], "scattercarpet": [{"marker": {"colorbar": {"outlinewidth": 0, "ticks": ""}}, "type": "scattercarpet"}], "scattergeo": [{"marker": {"colorbar": {"outlinewidth": 0, "ticks": ""}}, "type": "scattergeo"}], "scattergl": [{"marker": {"line": {"color": "#283442"}}, "type": "scattergl"}], "scattermapbox": [{"marker": {"colorbar": {"outlinewidth": 0, "ticks": ""}}, "type": "scattermapbox"}], "scatterpolar": [{"marker": {"colorbar": {"outlinewidth": 0, "ticks": ""}}, "type": "scatterpolar"}], "scatterpolargl": [{"marker": {"colorbar": {"outlinewidth": 0, "ticks": ""}}, "type": "scatterpolargl"}], "scatterternary": [{"marker": {"colorbar": {"outlinewidth": 0, "ticks": ""}}, "type": "scatterternary"}], "surface": [{"colorbar": {"outlinewidth": 0, "ticks": ""}, "colorscale": [[0.0, "#0d0887"], [0.1111111111111111, "#46039f"], [0.2222222222222222, "#7201a8"], [0.3333333333333333, "#9c179e"], [0.4444444444444444, "#bd3786"], [0.5555555555555556, "#d8576b"], [0.6666666666666666, "#ed7953"], [0.7777777777777778, "#fb9f3a"], [0.8888888888888888, "#fdca26"], [1.0, "#f0f921"]], "type": "surface"}], "table": [{"cells": {"fill": {"color": "#506784"}, "line": {"color": "rgb(17,17,17)"}}, "header": {"fill": {"color": "#2a3f5f"}, "line": {"color": "rgb(17,17,17)"}}, "type": "table"}]}, "layout": {"annotationdefaults": {"arrowcolor": "#f2f5fa", "arrowhead": 0, "arrowwidth": 1}, "autotypenumbers": "strict", "coloraxis": {"colorbar": {"outlinewidth": 0, "ticks": ""}}, "colorscale": {"diverging": [[0, "#8e0152"], [0.1, "#c51b7d"], [0.2, "#de77ae"], [0.3, "#f1b6da"], [0.4, "#fde0ef"], [0.5, "#f7f7f7"], [0.6, "#e6f5d0"], [0.7, "#b8e186"], [0.8, "#7fbc41"], [0.9, "#4d9221"], [1, "#276419"]], "sequential": [[0.0, "#0d0887"], [0.1111111111111111, "#46039f"], [0.2222222222222222, "#7201a8"], [0.3333333333333333, "#9c179e"], [0.4444444444444444, "#bd3786"], [0.5555555555555556, "#d8576b"], [0.6666666666666666, "#ed7953"], [0.7777777777777778, "#fb9f3a"], [0.8888888888888888, "#fdca26"], [1.0, "#f0f921"]], "sequentialminus": [[0.0, "#0d0887"], [0.1111111111111111, "#46039f"], [0.2222222222222222, "#7201a8"], [0.3333333333333333, "#9c179e"], [0.4444444444444444, "#bd3786"], [0.5555555555555556, "#d8576b"], [0.6666666666666666, "#ed7953"], [0.7777777777777778, "#fb9f3a"], [0.8888888888888888, "#fdca26"], [1.0, "#f0f921"]]}, "colorway": ["#636efa", "#EF553B", "#00cc96", "#ab63fa", "#FFA15A", "#19d3f3", "#FF6692", "#B6E880", "#FF97FF", "#FECB52"], "font": {"color": "#f2f5fa"}, "geo": {"bgcolor": "rgb(17,17,17)", "lakecolor": "rgb(17,17,17)", "landcolor": "rgb(17,17,17)", "showlakes": true, "showland": true, "subunitcolor": "#506784"}, "hoverlabel": {"align": "left"}, "hovermode": "closest", "mapbox": {"style": "dark"}, "paper_bgcolor": "rgb(17,17,17)", "plot_bgcolor": "rgb(17,17,17)", "polar": {"angularaxis": {"gridcolor": "#506784", "linecolor": "#506784", "ticks": ""}, "bgcolor": "rgb(17,17,17)", "radialaxis": {"gridcolor": "#506784", "linecolor": "#506784", "ticks": ""}}, "scene": {"xaxis": {"backgroundcolor": "rgb(17,17,17)", "gridcolor": "#506784", "gridwidth": 2, "linecolor": "#506784", "showbackground": true, "ticks": "", "zerolinecolor": "#C8D4E3"}, "yaxis": {"backgroundcolor": "rgb(17,17,17)", "gridcolor": "#506784", "gridwidth": 2, "linecolor": "#506784", "showbackground": true, "ticks": "", "zerolinecolor": "#C8D4E3"}, "zaxis": {"backgroundcolor": "rgb(17,17,17)", "gridcolor": "#506784", "gridwidth": 2, "linecolor": "#506784", "showbackground": true, "ticks": "", "zerolinecolor": "#C8D4E3"}}, "shapedefaults": {"line": {"color": "#f2f5fa"}}, "sliderdefaults": {"bgcolor": "#C8D4E3", "bordercolor": "rgb(17,17,17)", "borderwidth": 1, "tickwidth": 0}, "ternary": {"aaxis": {"gridcolor": "#506784", "linecolor": "#506784", "ticks": ""}, "baxis": {"gridcolor": "#506784", "linecolor": "#506784", "ticks": ""}, "bgcolor": "rgb(17,17,17)", "caxis": {"gridcolor": "#506784", "linecolor": "#506784", "ticks": ""}}, "title": {"x": 0.05}, "updatemenudefaults": {"bgcolor": "#506784", "borderwidth": 0}, "xaxis": {"automargin": true, "gridcolor": "#283442", "linecolor": "#506784", "ticks": "", "title": {"standoff": 15}, "zerolinecolor": "#283442", "zerolinewidth": 2}, "yaxis": {"automargin": true, "gridcolor": "#283442", "linecolor": "#506784", "ticks": "", "title": {"standoff": 15}, "zerolinecolor": "#283442", "zerolinewidth": 2}}}, "title": {"text": "\u672d\u5e4c\u611f\u67d3\u72b6\u6cc1 2021-04-25 \uff5e 2021-06-26 15:29"}, "width": 600, "xaxis": {"anchor": "y", "domain": [0.0, 0.475], "matches": "x5", "showticklabels": false}, "xaxis2": {"anchor": "y2", "domain": [0.525, 1.0], "matches": "x6", "showticklabels": false}, "xaxis3": {"anchor": "y3", "domain": [0.0, 0.475], "matches": "x5", "showticklabels": false}, "xaxis4": {"anchor": "y4", "domain": [0.525, 1.0], "matches": "x6", "showticklabels": false}, "xaxis5": {"anchor": "y5", "domain": [0.0, 0.475]}, "xaxis6": {"anchor": "y6", "domain": [0.525, 1.0]}, "yaxis": {"anchor": "x", "domain": [0.7133333333333334, 1.0], "range": [0, 5121.6]}, "yaxis2": {"anchor": "x2", "domain": [0.7133333333333334, 1.0], "range": [0, 548.9000000000001]}, "yaxis3": {"anchor": "x3", "domain": [0.3566666666666667, 0.6433333333333333], "range": [0, 94.06250000000001]}, "yaxis4": {"anchor": "x4", "domain": [0.3566666666666667, 0.6433333333333333], "range": [0, 22.899628252788105]}, "yaxis5": {"anchor": "x5", "domain": [0.0, 0.2866666666666667]}, "yaxis6": {"anchor": "x6", "domain": [0.0, 0.2866666666666667], "range": [0, 14.454819997345457]}},                        {"responsive": true}                    )                };                            </script>        </div>
